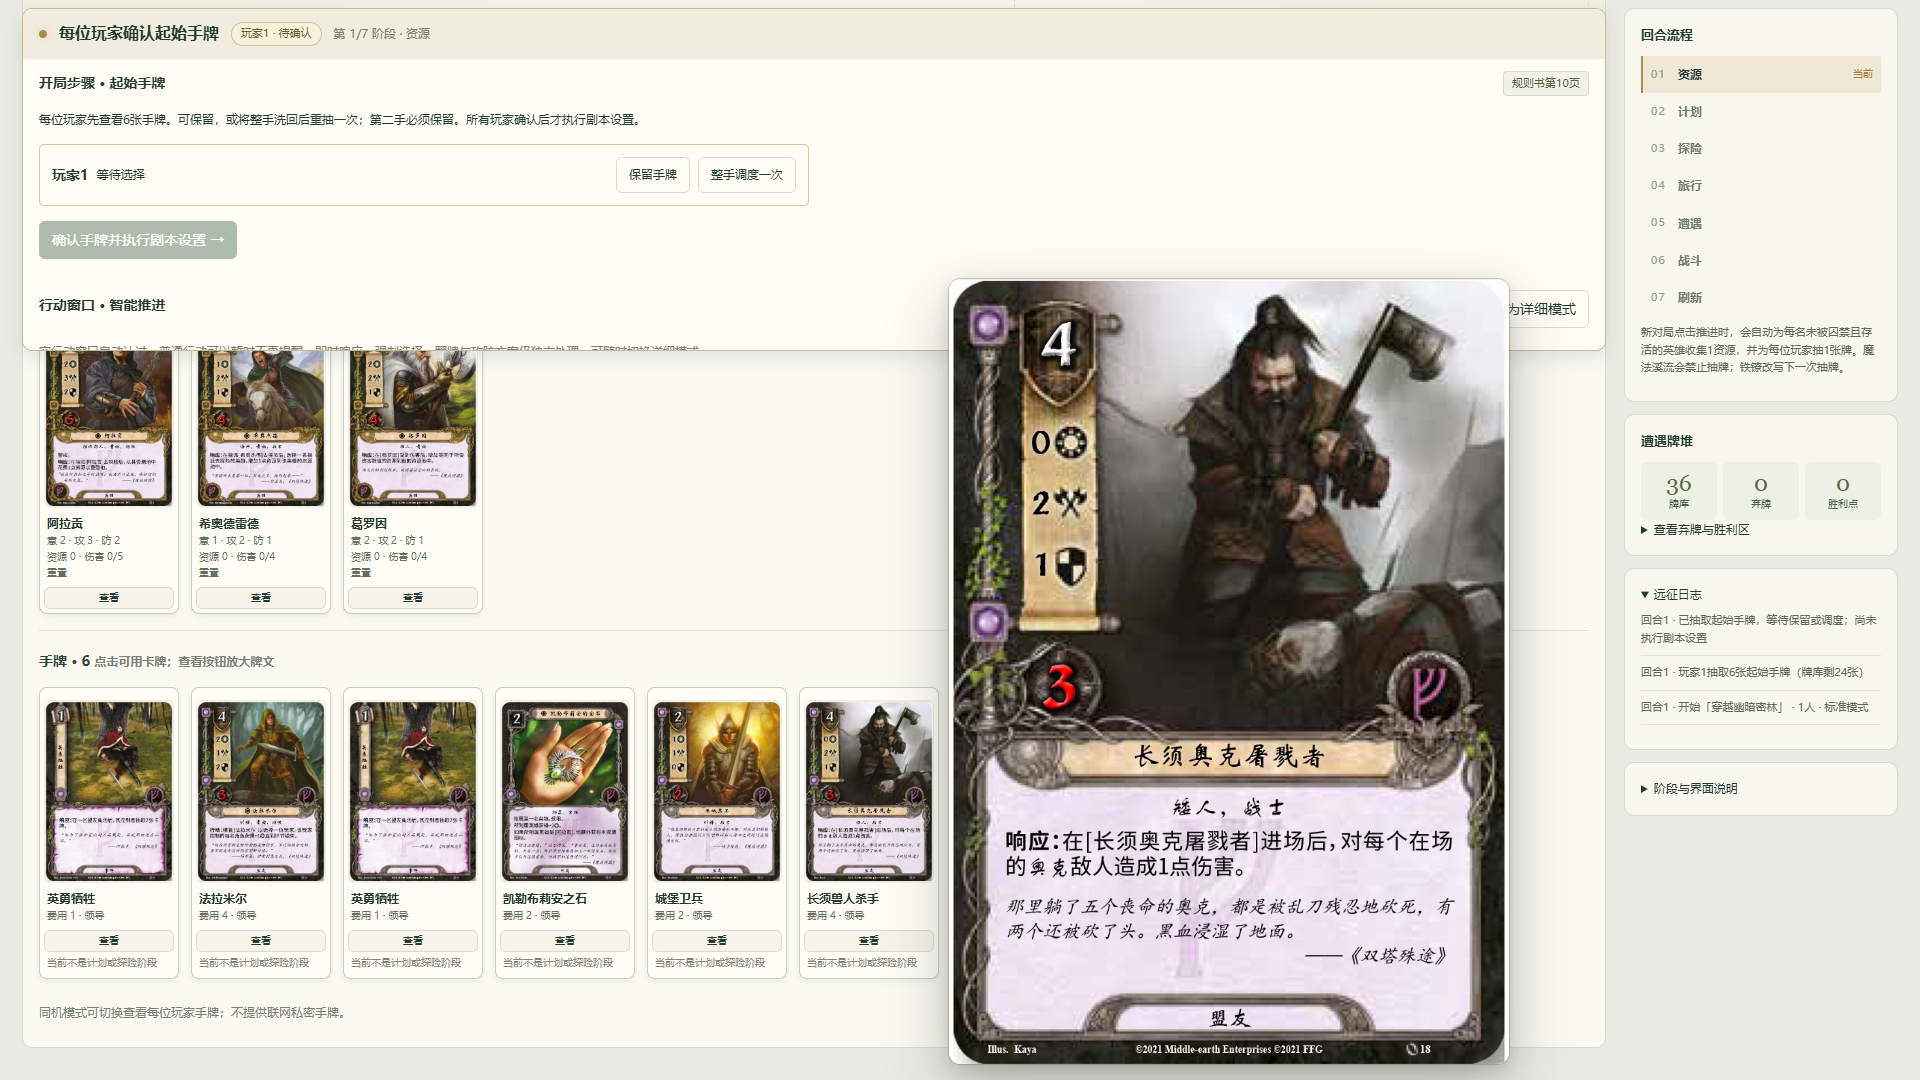
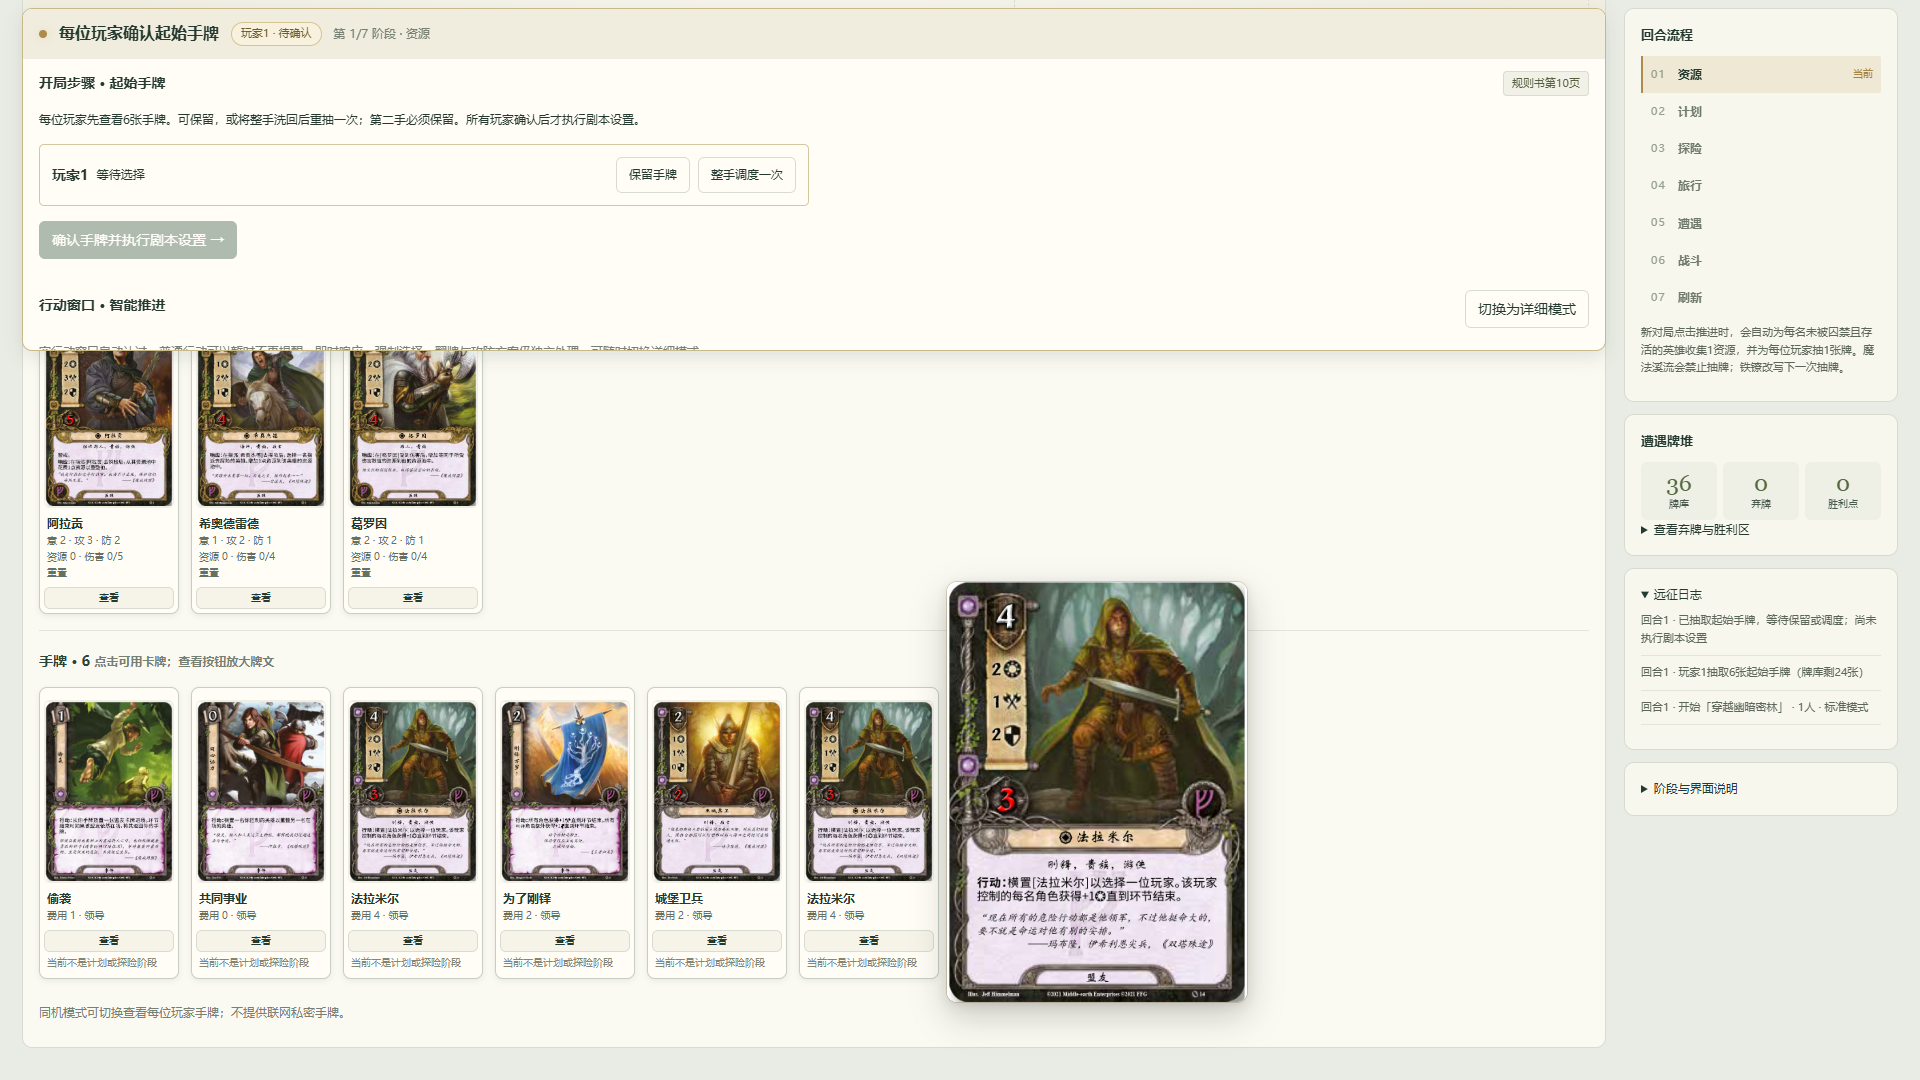
v0.15.26 悬停预览改为 RingsDB 式小图，不再近全屏放大
v0.15.25 的悬停预览按卡牌版心 424×600（横版 600×424）还原再缩放，
1440×900 视口下实测弹出 560×792，占视口高度 88%，几乎盖住半页内容，
与密集列表（行高仅 38px）完全不协调。

参照 RingsDB 的悬停预览逻辑改为「能看清字就够」的小图：

- 竖版基准 300 宽（约 425 高）、横版探险卡 400 宽（约 283 高），只缩
  不放；上限再受视口约束（宽 ≤26% 视口且 ≤380px、高 ≤58% 视口）。
  1440×900 下实测 300×425，占视口高度 47%
- 定位改为「从这一行长出来」：横向仍优先贴触发元素右侧、右不够放
  左侧并避开侧栏；纵向从「与卡片顶部对齐」改为与触发元素垂直居中后
  夹进视口；缩放动画原点同步改为触发元素对应的角
- 动画更利落：去掉 left/top 位移过渡（否则切行时图片带着滞后滑动），
  缩放淡入收短到 130ms；阴影半径与圆角随小图相应减小
- 回归：check-catalog 悬停断言改为「竖版 260–340 宽、不超过视口六成
  高」并新增比例检查

430 项规则／模拟DOM测试通过；浏览器验收 check-card-hover 22/22、
check-catalog 全 PASS（含新比例断言）、check-decks 22/22。

diff --git a/index.html b/index.html
@@ -268,9 +268,9 @@ body:has(.desktop-table) .nav-home .brand-mark{width:17px;height:17px}
 /* 卡牌悬停放大预览：整层不接收指针事件，绝不抢走原来的点击/选择操作 */
 .card-hover-layer{position:fixed;inset:0;pointer-events:none;z-index:9000;opacity:0;visibility:hidden;transition:opacity .14s ease,visibility 0s linear .14s}
 .card-hover-layer.on{opacity:1;visibility:visible;transition:opacity .16s ease,visibility 0s}
-.card-hover-box{position:fixed;border-radius:12px;background:#fffdf6;box-shadow:0 24px 60px #101a1447,0 4px 14px #101a1424,0 0 0 1px #b9a17380,0 0 0 6px #fffdf614;transform:scale(.94);opacity:0;transition:transform .16s cubic-bezier(.2,.8,.25,1),opacity .14s ease,left .12s ease,top .12s ease;will-change:transform,opacity;overflow:hidden}
+.card-hover-box{position:fixed;border-radius:10px;background:#fffdf6;box-shadow:0 14px 34px #101a1438,0 3px 10px #101a141c,0 0 0 1px #b9a17366;transform:scale(.97);opacity:0;transition:transform .13s cubic-bezier(.2,.8,.25,1),opacity .11s ease;will-change:transform,opacity;overflow:hidden}
 .card-hover-layer.on .card-hover-box{transform:scale(1);opacity:1}
-.card-hover-img{display:block;width:100%;height:100%;object-fit:contain;border-radius:12px;image-rendering:auto;background:#f2f0e4}
+.card-hover-img{display:block;width:100%;height:100%;object-fit:contain;border-radius:10px;image-rendering:auto;background:#f2f0e4}
 @media (prefers-reduced-motion:reduce){.card-hover-layer,.card-hover-box{transition:none}.card-hover-box{transform:none}}
 @media (hover:none){.card-hover-layer{display:none}}
 
@@ -8429,7 +8429,7 @@ const WindowUI=(()=>{
 </script><script>
 /* Tabletop view: UI drafts never pay, exhaust, reveal, or bypass phase validation. */
 /* 界面版本徽标唯一来源：须与 CHANGELOG.md 最新条目标题一致（planning-dom-tests 有校验）。 */
-const APP_VERSION='v0.15.25';
+const APP_VERSION='v0.15.26';
 const DesktopUI=(()=>{
  const E=ScenarioEngine,R=E.planning,Q=E.questing,C=E.combat,esc=x=>String(x??'').replace(/[&<>"']/g,c=>({'&':'&amp;','<':'&lt;','>':'&gt;','"':'&quot;',"'":'&#39;'}[c]));
  let combatDraft={key:'',target:null,ids:[]},draftState=null;
@@ -8574,23 +8574,27 @@ const PRODUCT_TABS={"source":"https://hallofbeorn.com/LotR/Products?View=Chronol
 const CardHoverPreview = (() => {
   const SHOW_DELAY = 130;     // 悬停停留多久才弹出，避免横扫时闪烁
   const HIDE_DELAY = 90;      // 移开后延迟收起，允许鼠标短暂划过间隙
-  const GAP = 16;
-  const MAX_H = 0.9;          // 放大卡最高占视口比例
-  const MAX_W = 0.42;
+  const GAP = 14;
+  // 参照 RingsDB 的悬停预览：卡片缩到「能看清字」的大小就够，不做近全屏放大。
+  // 竖版 300 宽约 424 高、横版 400 宽约 283 高，再按视口收紧，最多占半屏高。
+  const TALL_W = 300;
+  const WIDE_W = 400;
+  const MAX_H = 0.58;         // 最高占视口比例
+  const MAX_W = 0.26;         // 最宽占视口比例
+  const MAX_W_PX = 380;
 
   let layer = null, img = null, box = null, timer = 0, raf = 0;
   let cur = null;             // {src, alt, natural, ratio, rect}
-  let axis = 'x';             // 本次显示用横向还是纵向对齐
 
   const isFace = el => el.matches('.card-face img, .card-art img');
   const isProbe = el => !!(el.hasAttribute && el.hasAttribute('data-hover-src'));
   const live = el => el && el.isConnected && !el.closest('dialog[open]');
 
   function srcOf(t) { return isProbe(t) ? t.getAttribute('data-hover-src') : (t.currentSrc || t.src); }
-  // 探针没有真实图片可量，形状由标记给出：竖版卡 424×600，横版探险卡 600×424
+  // 探针没有真实图片可量，形状由标记给出：竖版 300×424，横版探险卡 400×283
   function shapeOf(t) {
     const s = t.getAttribute && t.getAttribute('data-hover-shape');
-    return s === 'wide' ? { w: 600, h: 424 } : s === 'tall' ? { w: 424, h: 600 } : null;
+    return s === 'wide' ? { w: WIDE_W, h: Math.round(WIDE_W * 424 / 600) } : s === 'tall' ? { w: TALL_W, h: Math.round(TALL_W * 600 / 424) } : null;
   }
 
   function ensure() {
@@ -8613,17 +8617,16 @@ const CardHoverPreview = (() => {
   function measure() {
     if (!img || !cur) return null;
     const vw = window.innerWidth, vh = window.innerHeight;
-    const maxW = Math.min(vw * MAX_W, 560);
+    const maxW = Math.min(vw * MAX_W, MAX_W_PX);
     const maxH = vh * MAX_H;
-    const nat = cur.natural || { w: 0, h: 0 };
-    // 竖版按 424 宽、横版按 600 宽还原版心，再整体缩到视口内
-    const wide = cur.ratio ? cur.ratio.w > cur.ratio.h : nat.w > nat.h;
-    const w = wide ? 600 : 424;
-    let h;
-    if (cur.ratio) h = Math.round(w * cur.ratio.h / cur.ratio.w);
-    else if (nat.w && nat.h) h = Math.round(w * nat.h / nat.w);
-    else h = wide ? 424 : 600;
-    const scale = Math.min(maxW / w, maxH / h);
+    // 基准宽度由形状决定，比例取自真实图片或 data-hover-shape；只缩不放
+    const shape = cur.ratio || (cur.natural.w && cur.natural.h ? { w: cur.natural.w, h: cur.natural.h } : null);
+    let w, h;
+    if (shape && shape.w && shape.h) {
+      w = shape.w > shape.h ? WIDE_W : TALL_W;
+      h = Math.round(w * shape.h / shape.w);
+    } else { w = TALL_W; h = Math.round(TALL_W * 600 / 424); }
+    const scale = Math.min(1, maxW / w, maxH / h);
     return { w: Math.round(w * scale), h: Math.round(h * scale) };
   }
 
@@ -8634,28 +8637,27 @@ const CardHoverPreview = (() => {
     const vw = window.innerWidth, vh = window.innerHeight;
     box.style.width = size.w + 'px';
     box.style.height = size.h + 'px';
-    // 横向：先算两侧可用空隙（右侧要扣掉阶段／日志侧栏），选更宽的一侧
+    // 横向：优先贴在触发元素右侧，右不够放左侧；都放不下就压回视口内
     const rail = document.querySelector('.tabletop-rail, .ng-list, aside');
     const railLeft = rail && rail.getBoundingClientRect().left > r.left + r.width ? rail.getBoundingClientRect().left : Infinity;
     const edgeRight = Math.min(vw, railLeft) - GAP;
     const spaceRight = edgeRight - r.right;
     const spaceLeft = r.left - GAP;
-    let left;
-    if (spaceRight >= size.w) { left = r.right + GAP; axis = 'x'; }
-    else if (spaceLeft >= size.w) { left = r.left - GAP - size.w; axis = 'x'; }
-    else if (spaceRight >= spaceLeft && spaceRight >= size.w * 0.55) { left = Math.min(r.right + GAP, edgeRight - size.w); axis = 'x'; }
-    else if (spaceLeft >= spaceRight && spaceLeft >= size.w * 0.55) { left = Math.max(GAP, r.left - GAP - size.w); axis = 'x'; }
-    else { left = Math.min(Math.max(GAP, r.left + r.width / 2 - size.w / 2), vw - size.w - GAP); axis = 'y'; }
-    // 纵向：与卡片顶部对齐，超出视口则向上顶回
-    let top = r.top;
-    if (top + size.h > vh - GAP) top = vh - GAP - size.h;
-    if (top < GAP) top = GAP;
+    let left, originX;
+    if (spaceRight >= size.w) { left = r.right + GAP; originX = '0%'; }
+    else if (spaceLeft >= size.w) { left = r.left - GAP - size.w; originX = '100%'; }
+    else if (spaceRight >= spaceLeft) { left = Math.max(GAP, edgeRight - size.w); originX = '0%'; }
+    else { left = Math.max(GAP, r.left - GAP - size.w); originX = '100%'; }
     left = Math.min(Math.max(GAP, left), vw - size.w - GAP);
+    // 纵向：与触发元素垂直居中，看起来是「从这一行长出来」，再夹进视口
+    const anchorY = r.top + r.height / 2;
+    let top = anchorY - size.h / 2;
+    top = Math.min(Math.max(GAP, top), vh - size.h - GAP);
     box.style.left = Math.round(left) + 'px';
     box.style.top = Math.round(top) + 'px';
-    // 从卡片这一侧展开，视觉上像卡牌长出来一样
-    const ox = left + size.w / 2 < r.left + r.width / 2 ? '100%' : (left > r.left ? '0%' : '50%');
-    box.style.transformOrigin = ox + ' ' + (axis === 'y' ? '50%' : 'calc(50% - ' + (r.top + r.height / 2 - (top + size.h / 2)) + 'px)');
+    // 从贴近触发元素的那一侧、对应它的垂直位置展开
+    const originY = Math.min(Math.max(0, anchorY - top), size.h);
+    box.style.transformOrigin = originX + ' ' + Math.round(originY) + 'px';
   }
 
   function show(target) {

diff --git a/card-hover-preview.js b/card-hover-preview.js
@@ -10,23 +10,27 @@
 const CardHoverPreview = (() => {
   const SHOW_DELAY = 130;     // 悬停停留多久才弹出，避免横扫时闪烁
   const HIDE_DELAY = 90;      // 移开后延迟收起，允许鼠标短暂划过间隙
-  const GAP = 16;
-  const MAX_H = 0.9;          // 放大卡最高占视口比例
-  const MAX_W = 0.42;
+  const GAP = 14;
+  // 参照 RingsDB 的悬停预览：卡片缩到「能看清字」的大小就够，不做近全屏放大。
+  // 竖版 300 宽约 424 高、横版 400 宽约 283 高，再按视口收紧，最多占半屏高。
+  const TALL_W = 300;
+  const WIDE_W = 400;
+  const MAX_H = 0.58;         // 最高占视口比例
+  const MAX_W = 0.26;         // 最宽占视口比例
+  const MAX_W_PX = 380;
 
   let layer = null, img = null, box = null, timer = 0, raf = 0;
   let cur = null;             // {src, alt, natural, ratio, rect}
-  let axis = 'x';             // 本次显示用横向还是纵向对齐
 
   const isFace = el => el.matches('.card-face img, .card-art img');
   const isProbe = el => !!(el.hasAttribute && el.hasAttribute('data-hover-src'));
   const live = el => el && el.isConnected && !el.closest('dialog[open]');
 
   function srcOf(t) { return isProbe(t) ? t.getAttribute('data-hover-src') : (t.currentSrc || t.src); }
-  // 探针没有真实图片可量，形状由标记给出：竖版卡 424×600，横版探险卡 600×424
+  // 探针没有真实图片可量，形状由标记给出：竖版 300×424，横版探险卡 400×283
   function shapeOf(t) {
     const s = t.getAttribute && t.getAttribute('data-hover-shape');
-    return s === 'wide' ? { w: 600, h: 424 } : s === 'tall' ? { w: 424, h: 600 } : null;
+    return s === 'wide' ? { w: WIDE_W, h: Math.round(WIDE_W * 424 / 600) } : s === 'tall' ? { w: TALL_W, h: Math.round(TALL_W * 600 / 424) } : null;
   }
 
   function ensure() {
@@ -49,17 +53,16 @@ const CardHoverPreview = (() => {
   function measure() {
     if (!img || !cur) return null;
     const vw = window.innerWidth, vh = window.innerHeight;
-    const maxW = Math.min(vw * MAX_W, 560);
+    const maxW = Math.min(vw * MAX_W, MAX_W_PX);
     const maxH = vh * MAX_H;
-    const nat = cur.natural || { w: 0, h: 0 };
-    // 竖版按 424 宽、横版按 600 宽还原版心，再整体缩到视口内
-    const wide = cur.ratio ? cur.ratio.w > cur.ratio.h : nat.w > nat.h;
-    const w = wide ? 600 : 424;
-    let h;
-    if (cur.ratio) h = Math.round(w * cur.ratio.h / cur.ratio.w);
-    else if (nat.w && nat.h) h = Math.round(w * nat.h / nat.w);
-    else h = wide ? 424 : 600;
-    const scale = Math.min(maxW / w, maxH / h);
+    // 基准宽度由形状决定，比例取自真实图片或 data-hover-shape；只缩不放
+    const shape = cur.ratio || (cur.natural.w && cur.natural.h ? { w: cur.natural.w, h: cur.natural.h } : null);
+    let w, h;
+    if (shape && shape.w && shape.h) {
+      w = shape.w > shape.h ? WIDE_W : TALL_W;
+      h = Math.round(w * shape.h / shape.w);
+    } else { w = TALL_W; h = Math.round(TALL_W * 600 / 424); }
+    const scale = Math.min(1, maxW / w, maxH / h);
     return { w: Math.round(w * scale), h: Math.round(h * scale) };
   }
 
@@ -70,28 +73,27 @@ const CardHoverPreview = (() => {
     const vw = window.innerWidth, vh = window.innerHeight;
     box.style.width = size.w + 'px';
     box.style.height = size.h + 'px';
-    // 横向：先算两侧可用空隙（右侧要扣掉阶段／日志侧栏），选更宽的一侧
+    // 横向：优先贴在触发元素右侧，右不够放左侧；都放不下就压回视口内
     const rail = document.querySelector('.tabletop-rail, .ng-list, aside');
     const railLeft = rail && rail.getBoundingClientRect().left > r.left + r.width ? rail.getBoundingClientRect().left : Infinity;
     const edgeRight = Math.min(vw, railLeft) - GAP;
     const spaceRight = edgeRight - r.right;
     const spaceLeft = r.left - GAP;
-    let left;
-    if (spaceRight >= size.w) { left = r.right + GAP; axis = 'x'; }
-    else if (spaceLeft >= size.w) { left = r.left - GAP - size.w; axis = 'x'; }
-    else if (spaceRight >= spaceLeft && spaceRight >= size.w * 0.55) { left = Math.min(r.right + GAP, edgeRight - size.w); axis = 'x'; }
-    else if (spaceLeft >= spaceRight && spaceLeft >= size.w * 0.55) { left = Math.max(GAP, r.left - GAP - size.w); axis = 'x'; }
-    else { left = Math.min(Math.max(GAP, r.left + r.width / 2 - size.w / 2), vw - size.w - GAP); axis = 'y'; }
-    // 纵向：与卡片顶部对齐，超出视口则向上顶回
-    let top = r.top;
-    if (top + size.h > vh - GAP) top = vh - GAP - size.h;
-    if (top < GAP) top = GAP;
+    let left, originX;
+    if (spaceRight >= size.w) { left = r.right + GAP; originX = '0%'; }
+    else if (spaceLeft >= size.w) { left = r.left - GAP - size.w; originX = '100%'; }
+    else if (spaceRight >= spaceLeft) { left = Math.max(GAP, edgeRight - size.w); originX = '0%'; }
+    else { left = Math.max(GAP, r.left - GAP - size.w); originX = '100%'; }
     left = Math.min(Math.max(GAP, left), vw - size.w - GAP);
+    // 纵向：与触发元素垂直居中，看起来是「从这一行长出来」，再夹进视口
+    const anchorY = r.top + r.height / 2;
+    let top = anchorY - size.h / 2;
+    top = Math.min(Math.max(GAP, top), vh - size.h - GAP);
     box.style.left = Math.round(left) + 'px';
     box.style.top = Math.round(top) + 'px';
-    // 从卡片这一侧展开，视觉上像卡牌长出来一样
-    const ox = left + size.w / 2 < r.left + r.width / 2 ? '100%' : (left > r.left ? '0%' : '50%');
-    box.style.transformOrigin = ox + ' ' + (axis === 'y' ? '50%' : 'calc(50% - ' + (r.top + r.height / 2 - (top + size.h / 2)) + 'px)');
+    // 从贴近触发元素的那一侧、对应它的垂直位置展开
+    const originY = Math.min(Math.max(0, anchorY - top), size.h);
+    box.style.transformOrigin = originX + ' ' + Math.round(originY) + 'px';
   }
 
   function show(target) {

diff --git a/style.css b/style.css
@@ -266,9 +266,9 @@ body:has(.desktop-table) .nav-home .brand-mark{width:17px;height:17px}
 /* 卡牌悬停放大预览：整层不接收指针事件，绝不抢走原来的点击/选择操作 */
 .card-hover-layer{position:fixed;inset:0;pointer-events:none;z-index:9000;opacity:0;visibility:hidden;transition:opacity .14s ease,visibility 0s linear .14s}
 .card-hover-layer.on{opacity:1;visibility:visible;transition:opacity .16s ease,visibility 0s}
-.card-hover-box{position:fixed;border-radius:12px;background:#fffdf6;box-shadow:0 24px 60px #101a1447,0 4px 14px #101a1424,0 0 0 1px #b9a17380,0 0 0 6px #fffdf614;transform:scale(.94);opacity:0;transition:transform .16s cubic-bezier(.2,.8,.25,1),opacity .14s ease,left .12s ease,top .12s ease;will-change:transform,opacity;overflow:hidden}
+.card-hover-box{position:fixed;border-radius:10px;background:#fffdf6;box-shadow:0 14px 34px #101a1438,0 3px 10px #101a141c,0 0 0 1px #b9a17366;transform:scale(.97);opacity:0;transition:transform .13s cubic-bezier(.2,.8,.25,1),opacity .11s ease;will-change:transform,opacity;overflow:hidden}
 .card-hover-layer.on .card-hover-box{transform:scale(1);opacity:1}
-.card-hover-img{display:block;width:100%;height:100%;object-fit:contain;border-radius:12px;image-rendering:auto;background:#f2f0e4}
+.card-hover-img{display:block;width:100%;height:100%;object-fit:contain;border-radius:10px;image-rendering:auto;background:#f2f0e4}
 @media (prefers-reduced-motion:reduce){.card-hover-layer,.card-hover-box{transition:none}.card-hover-box{transform:none}}
 @media (hover:none){.card-hover-layer{display:none}}
 

diff --git a/desktop-ui.js b/desktop-ui.js
@@ -1,6 +1,6 @@
 /* Tabletop view: UI drafts never pay, exhaust, reveal, or bypass phase validation. */
 /* 界面版本徽标唯一来源：须与 CHANGELOG.md 最新条目标题一致（planning-dom-tests 有校验）。 */
-const APP_VERSION='v0.15.25';
+const APP_VERSION='v0.15.26';
 const DesktopUI=(()=>{
  const E=ScenarioEngine,R=E.planning,Q=E.questing,C=E.combat,esc=x=>String(x??'').replace(/[&<>"']/g,c=>({'&':'&amp;','<':'&lt;','>':'&gt;','"':'&quot;',"'":'&#39;'}[c]));
  let combatDraft={key:'',target:null,ids:[]},draftState=null;

diff --git a/CHANGELOG.md b/CHANGELOG.md
@@ -1,3 +1,12 @@
+# v0.15.26 · 悬停预览改为 RingsDB 式小图，不再近全屏放大（2026-10-22）
+
+- v0.15.25 的悬停预览按卡牌版心 424×600（横版 600×424）还原再缩放，实测 1440×900 视口下弹出 560×792，占视口高度 88%，几乎盖住半页内容，与密集列表（行高仅 38px）也不协调。
+- 参照 RingsDB 的悬停预览逻辑改为「能看清字就够」的小图：竖版基准 300 宽（约 425 高）、横版探险卡 400 宽（约 283 高），只缩不放，上限再受视口约束（宽 ≤26% 视口且 ≤380px、高 ≤58% 视口）。1440×900 下实测 300×425，占视口高度 47%。
+- 定位改为「从这一行长出来」：横向仍优先贴触发元素右侧、右不够放左侧并避开侧栏；纵向从「与卡片顶部对齐」改为与触发元素垂直居中后夹进视口。缩放动画原点同步改为触发元素对应的角，弹出感更像卡片长出来。
+- 动画更利落：去掉 `left`/`top` 位移过渡（否则切行时图片带着滞后滑动），缩放淡入收短到 130ms；阴影半径与圆角随小图相应减小。
+- 回归：`check-catalog.cjs` 悬停断言改为「竖版 260–340 宽、不超过视口六成高」，实测 22 项（含新增比例检查）与 `check-card-hover` 22/22、`check-decks` 22/22 全过；430 项规则／模拟 DOM 测试通过。
+
+
 # v0.15.25 · 合并「英雄与玩家牌」到卡牌库，卡名悬停直接看图（2026-10-22）
 
 - 顶栏去掉「英雄与玩家牌」页签。玩家卡本来就已经并进卡牌库（v0.15.24），这一页只剩一套重复的卡片网格；牌组构筑能力不删，整体搬到「我的卡组 → 新建牌组 / 编辑」。
